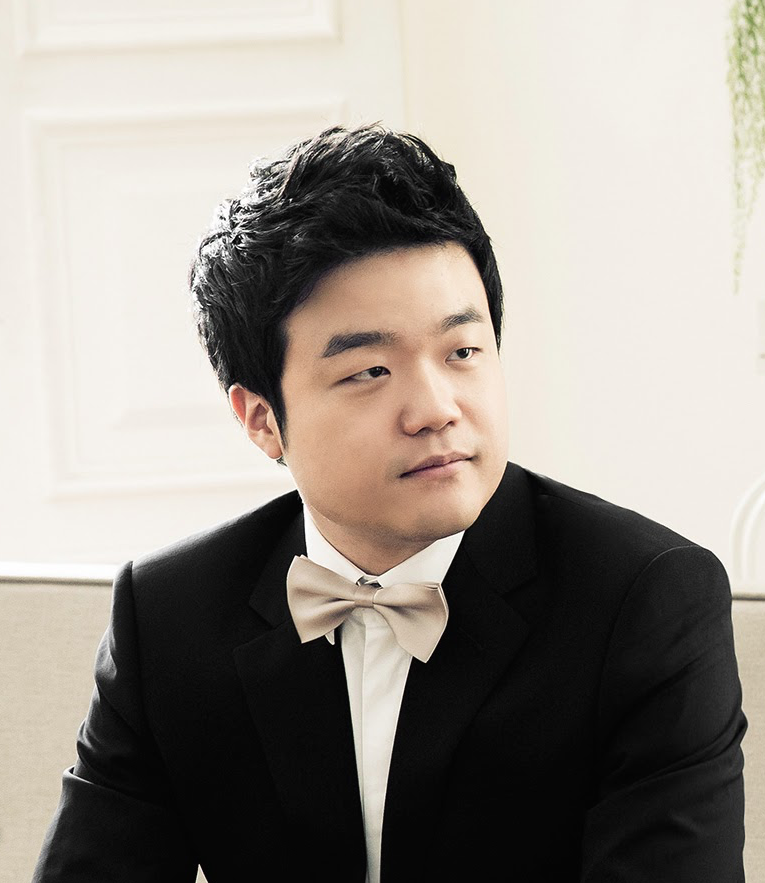
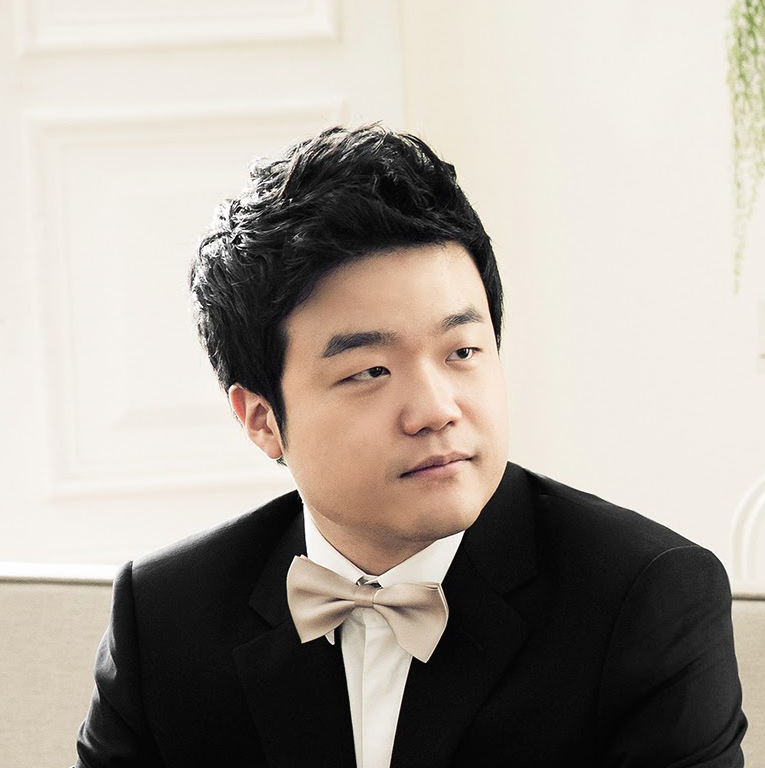
fix people img

diff --git a/courses.html b/courses.html
@@ -25,8 +25,8 @@
     <nav class="navbar navbar-color-on-scroll navbar-transparent navbar-light fixed-top navbar-expand-lg " color-on-scroll="0" id="sectionsNav">
         <div w3-include-html="header.html" class="container"></div>
     </nav>
-
-    <div class="page-header2 header-filter clear-filter" data-parallax="true" style="background-image: url('assets/img/yonsei-eagle.jpeg'); background-position-y: -170px; background-position: top;">
+    
+    <div class="page-header2 header-filter clear-filter" data-parallax="true" style="background-image: url('assets/img/home-bg.jpeg'); background-position-y: -170px; background-position: top;">
         <div class="container">
             <div class="row">
                 <div class="col-md-8 ml-auto mr-auto">
@@ -36,6 +36,7 @@
             </div>
         </div>
     </div>
+
 
     <div class="main main-raised">
         <div class="container">
@@ -49,7 +50,7 @@
                       <h4 class="card-title">Advanced Linear Algebra   </h4>
                       <h6 class="card-subtitle mb-2 text-muted">CSI2106-01</h6>
                       <p class="card-text">...</p>
-                      <a href="https://www.learnus.org/" class="card-link" target="_new"><b>2022 Spring</b></a>
+                      <!-- <a href="https://www.learnus.org/" class="card-link" target="_new"><b>2022 Spring</b></a> -->
                     </div>
                   </div>            
 
@@ -58,7 +59,7 @@
                     <h4 class="card-title">Object Oriented Programming         </h4>
                     <h6 class="card-subtitle mb-2 text-muted">CSI5103-01</h6>
                     <p class="card-text">..</p>
-                    <a href="https://www.learnus.org/" class="card-link" target="_new"><b>2022 Spring</b></a>
+                    <!-- <a href="https://www.learnus.org/" class="card-link" target="_new"><b>2022 Spring</b></a> -->
                   </div>
                 </div>            
             </div>

diff --git a/people.html b/people.html
@@ -67,7 +67,7 @@
                   <div class="card-body">
                         <div class="author">
                             <div class="avatar">
-                                <img src="./assets/img/people/Dongho.png" class="img-raised rounded-circle img-fluid"/>
+                                <img src="./assets/img/people/Dongho.jpeg"  alt =" " class="rounded-circle img-fluid"/>
                             </div>
                         </div>                    
                         <h4 class="card-title">Dongho Kim</h4>
